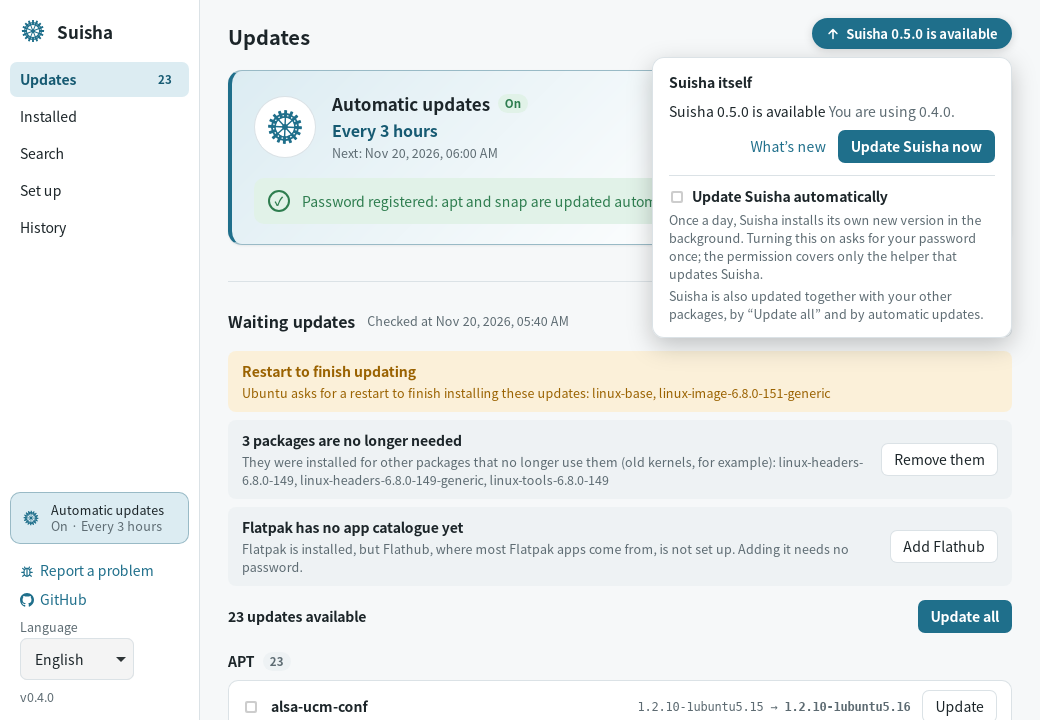
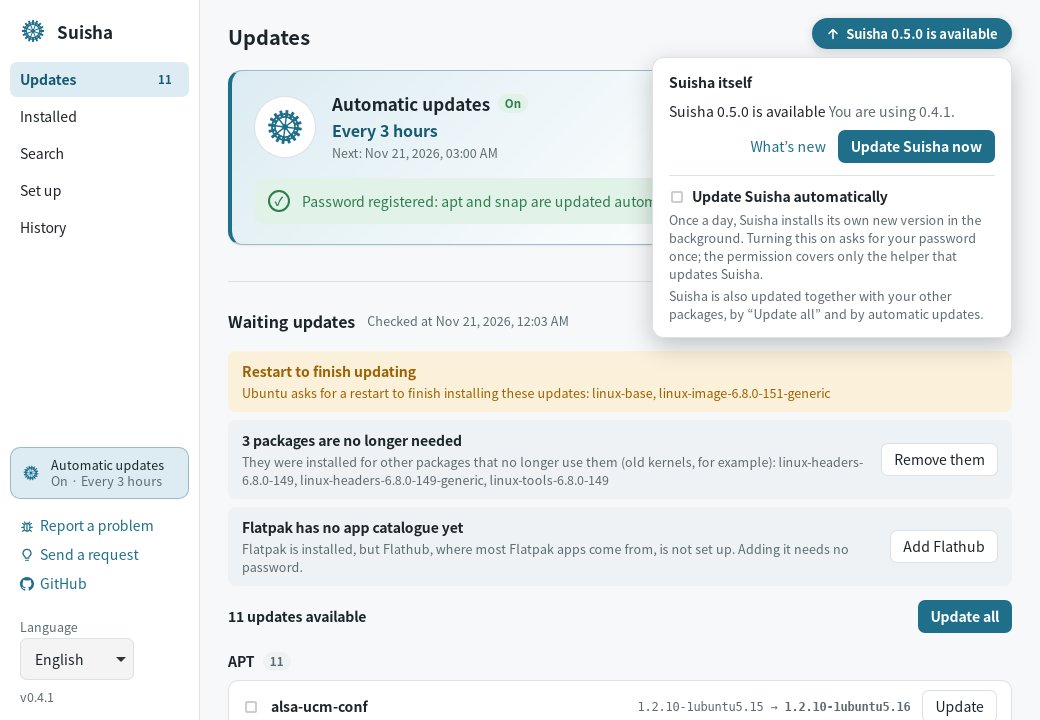
Release 0.4.1

Changed region(s): [[0.0, 0.6111, 0.1846, 0.8556], [0.2462, 0.1528, 0.3077, 0.2139], [0.4923, 0.4278, 0.5231, 0.4583]]

diff --git a/README.ja.md b/README.ja.md
@@ -19,7 +19,7 @@ Suisha は、Ubuntu に入っているアプリを自動で最新に保つデス
 - **インストール済みの一覧**：パッケージマネージャーごとに表示し、いらないものを削除できます。依存関係で入ったものや、システムの土台になるパッケージは表示しないので、うっかり消すことはありません
 - **新しいコンピューターのセットアップ**：アプリの一覧をファイルに保存し、新しいコンピューターや入れ直したコンピューターで開くと、入っていないものをまとめてインストールします
 - **ターミナルを開かなくて済むお知らせ**：更新を完了するために再起動が必要なとき、不要になったパッケージがあるとき（ボタン1つで削除）、Flatpak にアプリの一覧がまだないとき（ボタン1つで Flathub を追加）に知らせます
-- **記録**：インストール・削除・更新を、自動で行ったものも含めてすべて記録します
+- **記録**：インストール・削除・更新を、自動で行ったものも含めてすべて記録します。記録を残す期間は、3 日・30 日・100 日・400 日・好きな日数・ずっと残す・残さない、から選べます。初期値は 100 日です
 - 英語と日本語に対応しています
 
 Suisha は、パッケージの一覧を自分では持っていません。表示する内容はすべて、このコンピューターのパッケージマネージャーから取得しています。
@@ -45,7 +45,7 @@ sudo apt install suisha
 [Releases](https://github.com/moriyama-dev/suisha/releases) のページから `suisha-<版>-linux-amd64.deb` をダウンロードして、次を実行します。
 
 ```sh
-sudo apt install ./suisha-0.4.0-linux-amd64.deb
+sudo apt install ./suisha-0.4.1-linux-amd64.deb
 ```
 
 どちらの方法でも、以後は Suisha 自体も更新されます。パッケージを入れると、Suisha の apt リポジトリ（`/etc/apt/sources.list.d/suisha.list`）が、まだなければ登録されるためです。

diff --git a/README.md b/README.md
@@ -19,7 +19,7 @@ It works with **apt**, **snap**, **Flatpak** and **Homebrew** (on Linux).
 - **See what you installed**, grouped by package manager, and remove what you no longer need. Dependencies and base system packages are left out, so they cannot be removed by accident.
 - **Set up a new computer.** Save the list of your apps to a file, open it on a new or reinstalled computer, and Suisha installs whatever is missing in one go.
 - **Notices that save a trip to the terminal:** when Ubuntu needs a restart to finish updating, when packages are no longer needed (one button removes them), and when Flatpak has no app catalogue yet (one button adds Flathub).
-- **History** of every install, removal and update, including the automatic ones.
+- **History** of every install, removal and update, including the automatic ones. You choose how long entries are kept: 3, 30, 100 or 400 days, any number of days you type in, forever, or not at all. The default is 100 days.
 - English and Japanese.
 
 Suisha keeps no package catalog of its own. Everything comes from the package managers on your computer, so it shows exactly what they would.
@@ -45,7 +45,7 @@ sudo apt install suisha
 Download `suisha-<version>-linux-amd64.deb` from the [Releases](https://github.com/moriyama-dev/suisha/releases) page and run:
 
 ```sh
-sudo apt install ./suisha-0.4.0-linux-amd64.deb
+sudo apt install ./suisha-0.4.1-linux-amd64.deb
 ```
 
 Either way, Suisha is updated from then on: the package adds Suisha's apt repository (`/etc/apt/sources.list.d/suisha.list`) if it is not there yet.

diff --git a/.github/release-notes/0.4.1.md b/.github/release-notes/0.4.1.md
@@ -1,0 +1,11 @@
+- **Choose how long history is kept**: 3, 30, 100 or 400 days, a number of days of your own, forever, or not at all. Older entries are removed by themselves. The default is 100 days. When a change would remove entries you already have, Suisha asks first.
+- **Send a request**: a new link under "Report a problem" opens a GitHub issue for ideas and requests.
+- **Easier to find the schedule settings**: the button is now called "Change schedule and apps", and clicking the schedule itself, or the "Automatic updates" card in the sidebar, opens the same settings.
+- Fixed: after switching the display language, the "Last run" time stayed in the previous language's format.
+
+---
+
+- **記録を残す期間を選べます**：3 日・30 日・100 日・400 日・日数を指定・ずっと残す・残さない。期間を過ぎた記録は自動で削除されます。初期値は 100 日です。今ある記録が消える変更のときは、変える前に確認します
+- **要望を伝える**：「問題を報告」の下に、要望やアイデアを GitHub の Issue として送るリンクを追加しました
+- **自動更新の設定を見つけやすく**：ボタンの名前を「頻度と対象を変更」に変えました。スケジュールの文字や、サイドバーの「自動更新」を押しても、同じ設定が開きます
+- 修正：表示言語を切り替えたあと、「前回」の日時が前の言語の書式のまま残っていました
